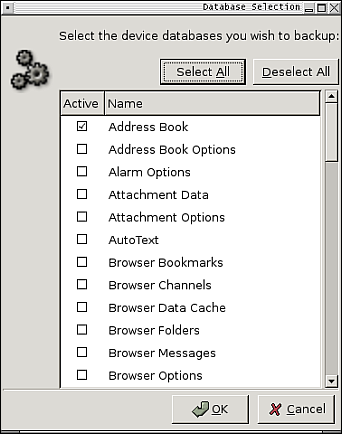
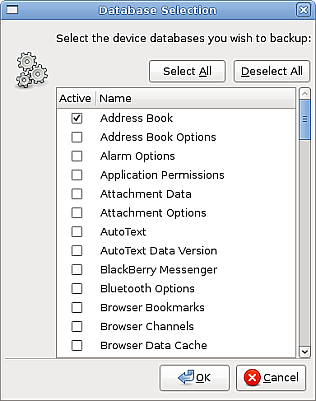
gui: updated web documentation and screenshots

diff --git a/doc/www/backups.php b/doc/www/backups.php
@@ -32,31 +32,44 @@ Your .gtkrc-2.0 file would contain:</p>
 </pre>
 
 
-<? createSubHeader("Backup Interface"); ?>
+<? createSubHeader("Main Screen"); ?>
 
 
-<p>When Backup starts, it scans the USB bus for Blackberry devices.  If it
-finds one, it assumes that is the device you want to work with.  If it
-finds two, it prompts you to select the device to backup.</p>
+<p>When Backup starts, it scans the USB bus for all the Blackberry devices
+it can find and lists them in the main screen.  The first device listed
+is automatically connected and highlighted.</p>
+
+<p>You can connect to different devices on the fly by selecting the
+desired device in the list.  The currently highlighted device determines
+what device the buttons to the right will operate on.</p>
 
 <p>When connecting to a device for the first time, you are prompted to
 give the device a name.  This will be linked to the device's PIN number
 for easy identification later.</p>
 
-<p>The main screen presents you with two options: Backup and Restore.</p>
+<p>The main screen presents you with a number of options.</p>
 
 <? createImage("backup.png"); ?>
 
-<p>When backing up your device, your data is saved in a compressed tar file
-in your home directory, under ~/.barry, organized by PIN number.  Each tar
-backup file is given a timestamp in its filename.</p>
+
+
+<? createSubHeader("Backup Button"); ?>
+
+<p>The Backup button initiates the backup process for the currently selected
+device.  Multiple backups and restores can be run at once.</p>
+
+<p>When backing up your device, your data is saved by default in a
+compressed tar file in your home directory, under ~/.barry, organized by
+PIN number.  Each tar backup file is given a timestamp in its filename.
+The destination directory can be changed per device, using the Config...
+button.</p>
 
 <p>When the backup starts, you are prompted to give the backup an optional
 name.  If you specify a name, it will be used as part of the tar filename.</p>
 
 
 
-<? createSubHeader("Restore"); ?>
+<? createSubHeader("Restore Button"); ?>
 
 <p>Pressing the Restore button will show a File Open dialog, pointing
 to your ~/.barry directory, for the current device PIN.</p>
@@ -69,7 +82,9 @@ to copy data from one device to another.</p>
 
 <p>The restore is governed by your current configuration, which determines
 what databases are restored.  Any database that is restored will be
-completely erased before the backup data is re-written.</p>
+completely erased before the backup data is re-written.  If the source
+backup file contains no data for that database, then the database
+will merely be erased.</p>
 
 <p>There are some databases that are read-only on the BlackBerry.
 In addition, if your device is connected to a BES, you may not be
@@ -79,26 +94,46 @@ the Restore Configuration dialog, as described below.</p>
 
 
 
-<? createSubHeader("Configuration"); ?>
+<? createSubHeader("Config Button"); ?>
 
-<p>Configuration is performed via the Edit menu, and provides two
-filters for determining what databases are accessed during backup and
-restore operations.  You can also change the device name here, and turn
-off the backup name prompt.</p>
+<p>Pressing the Config button opens the config options dialog as shown
+below.</p>
 
 <? createImage("config.png"); ?>
 
-<p>Each configure button provides essentially the same dialog, containing a
-list of databases available on your device, as well as checkboxes to
-enable them.</p>
+<p>You can rename your device here, set a different backup target directory,
+and select whether backups should have labels or not.  If this checkbox
+is selected, you will be prompted for an optional label each time you
+create a new backup.</p>
 
-<p>For the backup filter, only the enabled databases will be saved.
-For the restore filter, only the enabled databases will be restored,
-even if the backup file contains more data.</p>
+<? createImage("label.png"); ?>
+
+<p>Both backup and restore operations have their own database filters
+which can be configured here.  For the backup filter, only the enabled
+databases will be saved.  For the restore filter, only the enabled
+databases will be restored, even if the backup file contains more data.</p>
+
+<p>Each filter configure button provides essentially the same dialog,
+containing a list of databases available on your device, as well as
+checkboxes to enable them.</p>
 
 <? createImage("config-backup.png"); ?>
 
 <p>This configuration is saved per device PIN.  If you backup a different
 device, you will need to configure its backup strategy again.  You can only
 change the configuration for the current device with these dialogs.</p>
+
+
+
+<? createSubHeader("Disconnect Buttons"); ?>
+
+<p>The Disconnect and Disconnect All buttons let you escape the device's
+Desktop mode while keeping the program running.  It is possible to disconnect
+during a backup or restore, but this may leave your device data in an
+unknown state.</p>
+
+<? createSubHeader("Rescan Button"); ?>
+
+<p>This button refreshes the device list, which is useful when a new device
+has been plugged in.</p>
 
